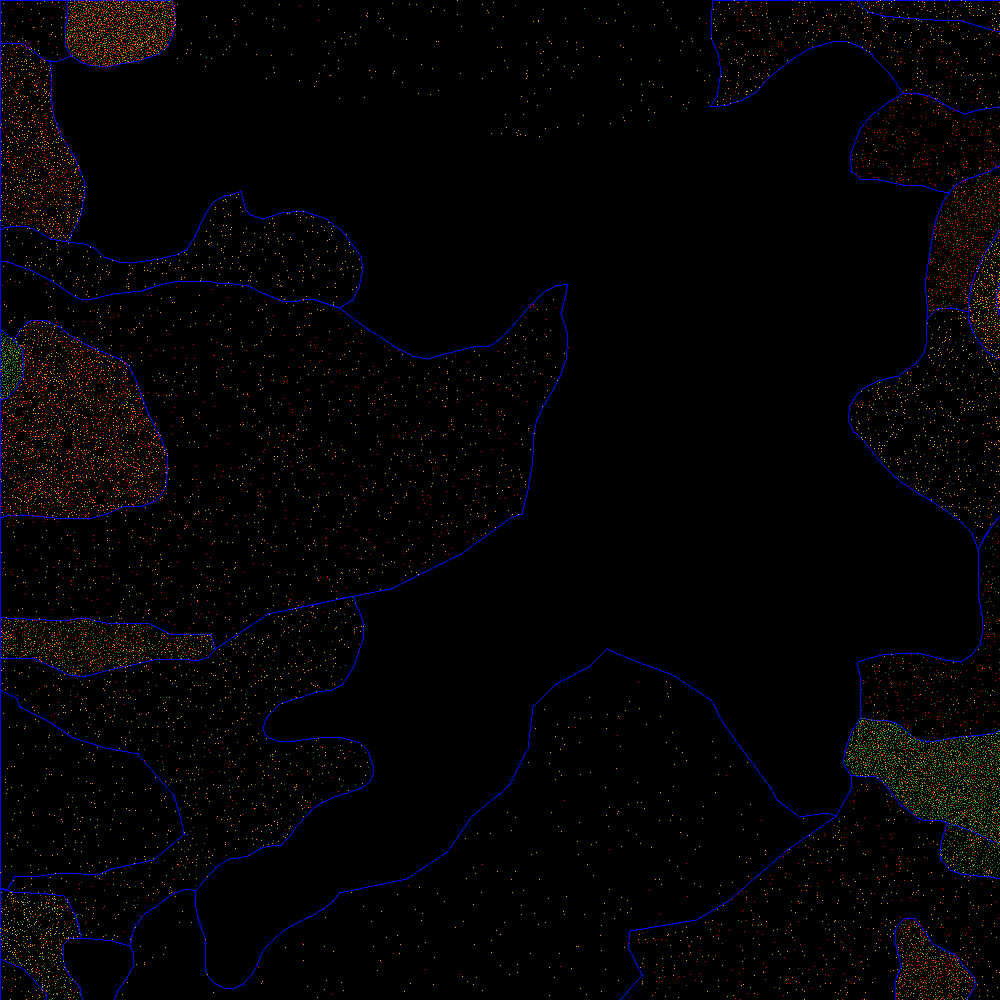
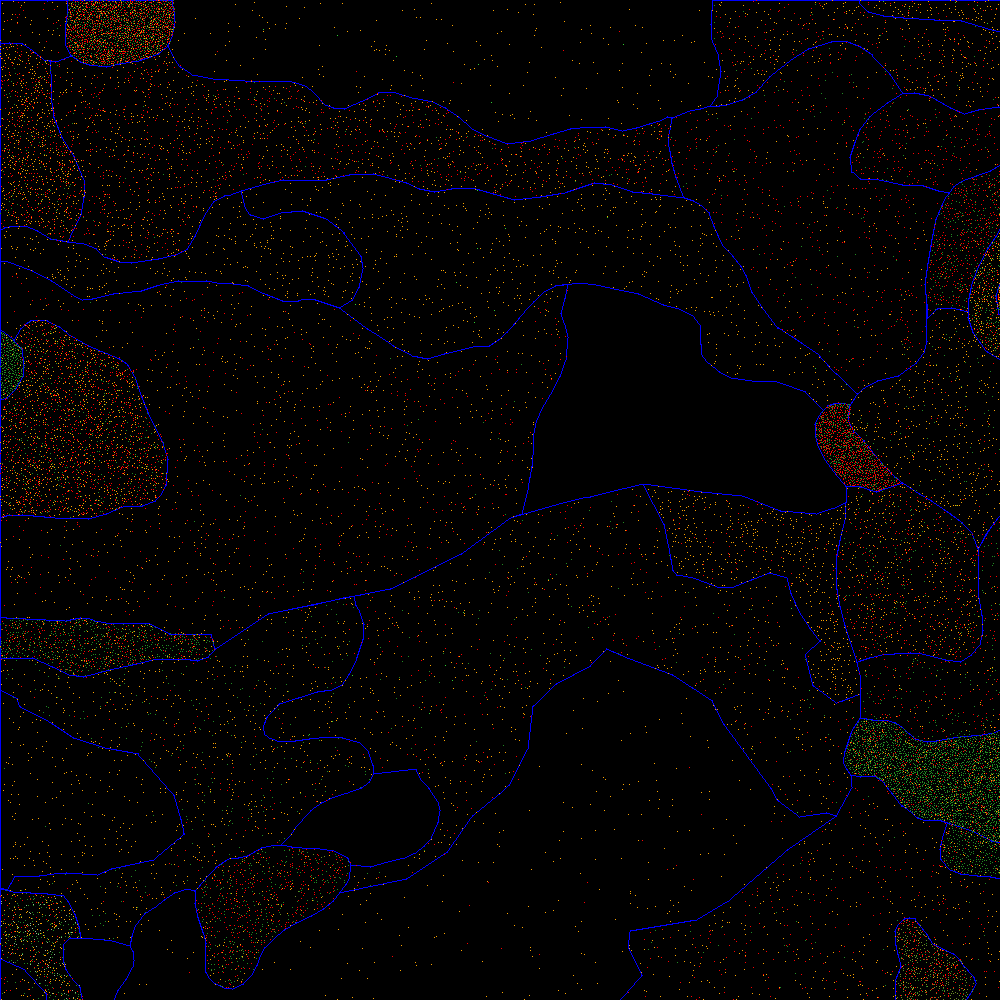
fixed get_compartments_in_bounding_box

diff --git a/src/forest_property/compartment.rs b/src/forest_property/compartment.rs
@@ -38,10 +38,8 @@ impl Compartment {
         if clipped.0.is_empty() {
             None
         } else {
-            let exterior = clipped.0.first().unwrap().exterior().clone();
-            let interior = clipped.0.first().unwrap().interiors().clone();
-            let polygon = Polygon::new(exterior, interior.to_vec());
-            Some(polygon)
+            let p = clipped.0.first().unwrap();
+            Some(p.to_owned())
         }
     }
 
@@ -54,21 +52,14 @@ impl Compartment {
     }
 }
 
-pub fn find_stands_in_bounding_box(stands: &Vec<Stand>, min_x: f64, max_x: f64, min_y: f64, max_y: f64) -> Option<Vec<&Stand>> {
-    let b_box_line_string = line_string![
-        (x: min_x, y: min_y), 
-        (x: max_x, y: min_y),
-        (x: max_x, y: max_y),
-        (x: min_x, y: max_y),
-        (x: min_x, y: min_y)  // Close the polygon
-    ];
+pub fn find_stands_in_bounding_box<'a>(stands: &'a Vec<Stand>, bbox: &'a Polygon) -> Option<Vec<&'a Stand>> {
 
     // Collect the stands that intersect with the bounding box
     let intersecting_stands: Vec<&Stand> = stands.iter().filter(|stand| {
         let stand_coordinate_sring = stand.stand_basic_data.polygon_geometry.polygon_property.polygon.exterior.linear_ring.coordinates.clone();
         let stand_coordinates = get_coordinates_from_string(&stand_coordinate_sring);
         let stand_line_string = LineString::from(stand_coordinates);
-        stand_line_string.intersects(&b_box_line_string)
+        bbox.intersects(&stand_line_string)
     }).collect();  // Collect the stands that intersect with the bounding box
 
     if intersecting_stands.is_empty() {
@@ -99,13 +90,13 @@ fn get_coordinates_from_string(coord_string: &str) -> Vec<Coord> {
 }
 
 // Get compartments in a bounding box.
-pub fn get_compartments_in_bounding_box(all_stands: Vec<Stand>, min_x: f64, max_x: f64, min_y: f64, max_y: f64) -> Vec<Compartment> {
+pub fn get_compartments_in_bounding_box(all_stands: Vec<Stand>, bbox: &Polygon) -> Vec<Compartment> {
     let mut compartments = Vec::new();
 
     println!("\nTotal stands: {:?}", all_stands.len());
 
     // Find stands in the bounding box
-    let stands = find_stands_in_bounding_box(&all_stands, min_x, max_x, min_y, max_y);
+    let stands = find_stands_in_bounding_box(&all_stands, bbox);
 
     // If there are stands in the bounding box, generate random trees for each stand
     if !stands.is_none() {

diff --git a/src/main.rs b/src/main.rs
@@ -228,8 +228,6 @@ let min_y: f64 = 7369564.333;
     let mut image = ImageProcessor::new(img_width, img_height);
 
     // Find compartments in the bounding box
-    let compartments = get_compartments_in_bounding_box(stands, min_x, max_x, min_y, max_y);
-
     let bbox = geo::Polygon::new(
         LineString(vec![
             Coord { x: min_x, y: min_y },
@@ -240,6 +238,7 @@ let min_y: f64 = 7369564.333;
         ]),
         vec![],
     );
+    let compartments = get_compartments_in_bounding_box(stands, &bbox);
    
     let scale = ImageProcessor::create_scale(min_x, max_x, min_y, max_y, img_width, img_height);
 
